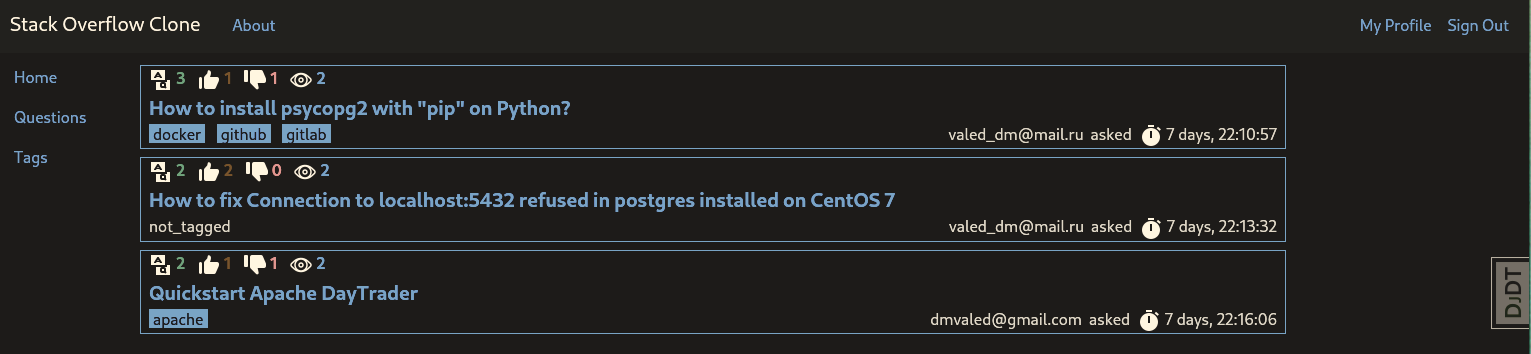
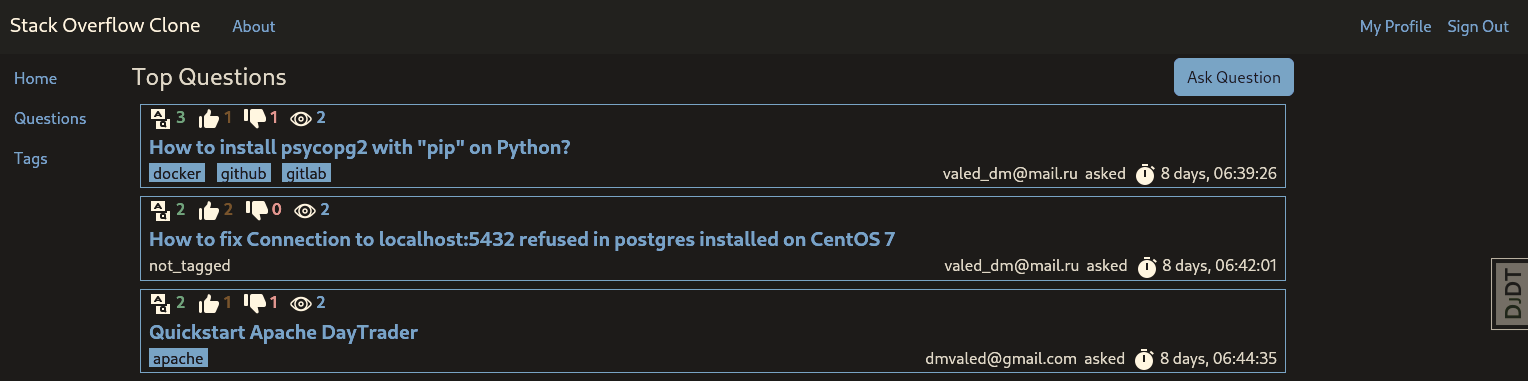
"Top Questions" title, "Ask Question" button added to main questions page

diff --git a/soclone/templates/questions/questions.html b/soclone/templates/questions/questions.html
@@ -5,6 +5,10 @@
 
 {% block content %}
   <div class="mx-auto">
+    <div class="d-flex justify-content-between">
+      <span class="fs-4">Top Questions</span>
+      <button type="button" class="btn btn-primary">Ask Question</button>
+    </div>
     {% if questions_list %}
       {% for question in questions_list %}
         <div class="border border-1 border-primary m-2">
